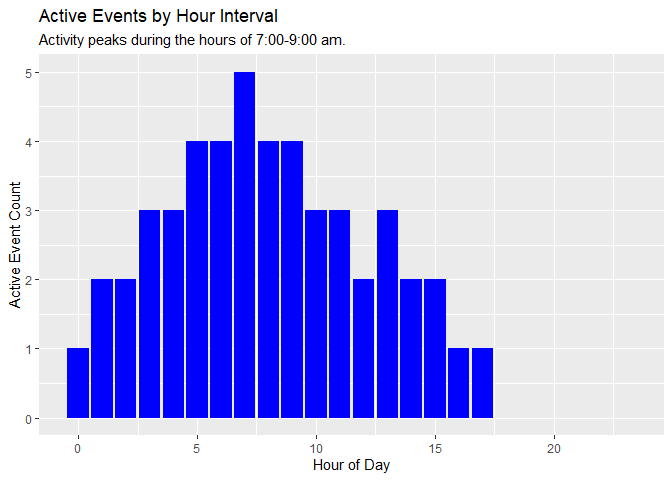
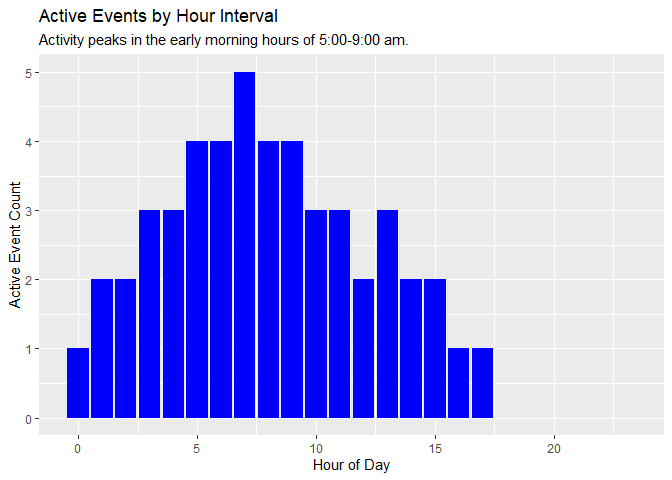
Hour interval updates

Changed region(s): [[0.1875, 0.0625, 0.625, 0.0938]]

diff --git a/R/count_by_hour_interval.md b/R/count_by_hour_interval.md
@@ -1,26 +1,25 @@
 ## Problem
 
-You need to count active events in a manner that require a solution for
-counting by hour interval, accounting for events that overlap intervals.
+You need to count active events by hour interval, accounting for events
+that overlap multiple intervals.
 
 ## Solution
 
-This solution is implemented as a function that count active events for
+This solution is implemented as a function that counts active events for
 each hour, considering the start and end hours of those events. The
-function accounts for events that overlap multiple hour intervals to
-avoid counting them more than once.
+function accounts for events that overlap multiple hour intervals.
 
 This solution assumes events start and end within a single 24-hour day.
 
 #### Load Libraries
 
-This solution uses the `dplyr`, `knitr` and `stringr` libraries. The
-code chunk below checks for installation and, if needed, will install
-the libraries and load them. The `ggplot` library is used to generate
-the plot at the end of this example.
+This solution uses the `dplyr` and `knitr` libraries. The code chunk
+below checks for installation and, if needed, will install the libraries
+and load them. The `ggplot` library is used to generate the plot at the
+end of this example.
 
 ``` r
-packages <- c("dplyr", "ggplot2", "knitr", "stringr")
+packages <- c("dplyr", "ggplot2", "knitr")
 
 installed_packages <- packages %in% rownames(installed.packages())
 
@@ -52,7 +51,7 @@ events <- events %>%
 ```
 
 With the exception of the first event, all the events in this data frame
-will overlap at least one interval, and there will be hours in the day
+will overlap at least two intervals, and there will be hours in the day
 in which there are no active events. The data frame looks like this.
 
 ``` r
@@ -79,7 +78,9 @@ Events Data Frame
 
 #### Count Function
 
-Explain…
+The function below returns the sum of events in which the start hour is
+less than or equal to the current hour and the end hour is greater than
+or equal to the current hour.
 
 ``` r
 count_active_events <- function(current_hour, start_hour, end_hour) {
@@ -91,7 +92,20 @@ count_active_events <- function(current_hour, start_hour, end_hour) {
 
 #### Generate Hourly Counts
 
-Use function to create counts table…
+Use function to create counts table, create an hours vector than
+contains integer values for each hour of the day, o through 23.
+
+then create an hourly counts vector with one variable based on the hours
+vector. We will use this data frame to capture the counts by interval.
+
+Use the `count_active_events` function to add a second variable to the
+data frame, passing the hour of day, start and end hour of each row in
+the events data frame.
+
+Note that the `rowwise` function allows you to compute on the events
+data frame one row at a time. We use
+`this function`rowwise`because the`count_active_events\` function is not
+vectorized.
 
 ``` r
 hours <- 0:23
@@ -103,7 +117,7 @@ hourly_counts <- hourly_counts %>%
   mutate(active_event_count = count_active_events(hour_of_day, events$start_hour, events$end_hour))
 ```
 
-Resulting table…
+The following table shows the count of active events by hour.
 
 ``` r
 kable(hourly_counts,
@@ -151,7 +165,7 @@ the course of a day.
 ggplot(hourly_counts, aes(x = hour_of_day, y = active_event_count)) +
   geom_bar(stat = "identity", fill = "blue") +
   labs(title = "Active Events by Hour Interval",
-       subtitle = "Activity peaks during the hours of 7:00-9:00 am.",
+       subtitle = "Activity peaks in the early morning hours of 5:00-9:00 am.",
        x = "Hour of Day",
        y = "Active Event Count")
 ```
